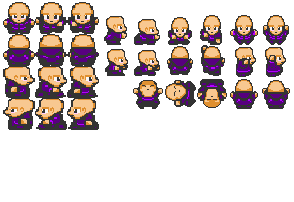
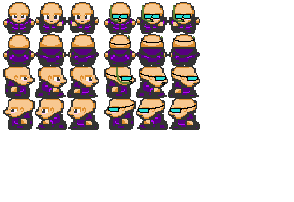
cambios

Changed region(s): [[0.3367, 0.0, 1.0, 0.6535]]

diff --git a/pythonProject/sprites.py b/pythonProject/sprites.py
@@ -16,6 +16,11 @@ class Spritesheet:
 
 
 class Player(pygame.sprite.Sprite):
+    bombas = 0
+    diamantes = 0
+    traje = False
+    trajePuesto = True
+
     def __init__(self, game, x, y):
 
         self.game = game
@@ -95,55 +100,108 @@ class Player(pygame.sprite.Sprite):
                     self.rect.y = hits[0].rect.bottom
 
     def animate(self):
-        down_animations = [self.game.character_spritesheet.get_sprite(3, 2, self.width, self.height),
-                           self.game.character_spritesheet.get_sprite(35, 2, self.width, self.height),
-                           self.game.character_spritesheet.get_sprite(68, 2, self.width, self.height)]
+        if not self.trajePuesto:
+            down_animations = [self.game.character_spritesheet.get_sprite(3, 2, self.width, self.height),
+                               self.game.character_spritesheet.get_sprite(35, 2, self.width, self.height),
+                               self.game.character_spritesheet.get_sprite(68, 2, self.width, self.height)]
 
-        up_animations = [self.game.character_spritesheet.get_sprite(3, 34, self.width, self.height),
-                         self.game.character_spritesheet.get_sprite(35, 34, self.width, self.height),
-                         self.game.character_spritesheet.get_sprite(68, 34, self.width, self.height)]
+            up_animations = [self.game.character_spritesheet.get_sprite(3, 34, self.width, self.height),
+                             self.game.character_spritesheet.get_sprite(35, 34, self.width, self.height),
+                             self.game.character_spritesheet.get_sprite(68, 34, self.width, self.height)]
 
-        left_animations = [self.game.character_spritesheet.get_sprite(3, 98, self.width, self.height),
-                           self.game.character_spritesheet.get_sprite(35, 98, self.width, self.height),
-                           self.game.character_spritesheet.get_sprite(68, 98, self.width, self.height)]
+            left_animations = [self.game.character_spritesheet.get_sprite(3, 98, self.width, self.height),
+                               self.game.character_spritesheet.get_sprite(35, 98, self.width, self.height),
+                               self.game.character_spritesheet.get_sprite(68, 98, self.width, self.height)]
 
-        right_animations = [self.game.character_spritesheet.get_sprite(3, 66, self.width, self.height),
-                            self.game.character_spritesheet.get_sprite(35, 66, self.width, self.height),
-                            self.game.character_spritesheet.get_sprite(68, 66, self.width, self.height)]
-        if self.facing == "down":
-            if self.y_change == 0:
-                self.image = self.game.character_spritesheet.get_sprite(3, 2, self.width, self.height)
-            else:
-                self.image = down_animations[math.floor(self.animation_loop)]
-                self.animation_loop += 0.1
-                if self.animation_loop >= 3:
-                    self.animation_loop = 1
-        if self.facing == "up":
-            if self.y_change == 0:
-                self.image = self.game.character_spritesheet.get_sprite(3, 34, self.width, self.height)
-            else:
-                self.image = up_animations[math.floor(self.animation_loop)]
-                self.animation_loop += 0.1
-                if self.animation_loop >= 3:
-                    self.animation_loop = 1
+            right_animations = [self.game.character_spritesheet.get_sprite(3, 66, self.width, self.height),
+                                self.game.character_spritesheet.get_sprite(35, 66, self.width, self.height),
+                                self.game.character_spritesheet.get_sprite(68, 66, self.width, self.height)]
+        else:
+            down_animations = [self.game.character_spritesheet.get_sprite(104, 2, self.width, self.height),
+                               self.game.character_spritesheet.get_sprite(136, 2, self.width, self.height),
+                               self.game.character_spritesheet.get_sprite(168, 2, self.width, self.height)]
 
-        if self.facing == "right":
-            if self.x_change == 0:
-                self.image = self.game.character_spritesheet.get_sprite(3, 66, self.width, self.height)
-            else:
-                self.image = right_animations[math.floor(self.animation_loop)]
-                self.animation_loop += 0.1
-                if self.animation_loop >= 3:
-                    self.animation_loop = 1
+            up_animations = [self.game.character_spritesheet.get_sprite(3, 34, self.width, self.height),
+                             self.game.character_spritesheet.get_sprite(35, 34, self.width, self.height),
+                             self.game.character_spritesheet.get_sprite(68, 34, self.width, self.height)]
 
-        if self.facing == "left":
-            if self.x_change == 0:
-                self.image = self.game.character_spritesheet.get_sprite(3, 98, self.width, self.height)
-            else:
-                self.image = left_animations[math.floor(self.animation_loop)]
-                self.animation_loop += 0.1
-                if self.animation_loop >= 3:
-                    self.animation_loop = 1
+            left_animations = [self.game.character_spritesheet.get_sprite(3, 98, self.width, self.height),
+                               self.game.character_spritesheet.get_sprite(35, 98, self.width, self.height),
+                               self.game.character_spritesheet.get_sprite(68, 98, self.width, self.height)]
+
+            right_animations = [self.game.character_spritesheet.get_sprite(3, 66, self.width, self.height),
+                                self.game.character_spritesheet.get_sprite(35, 66, self.width, self.height),
+                                self.game.character_spritesheet.get_sprite(68, 66, self.width, self.height)]
+        if not self.trajePuesto:
+            if self.facing == "down":
+                if self.y_change == 0:
+                    self.image = self.game.character_spritesheet.get_sprite(3, 2, self.width, self.height)
+                else:
+                    self.image = down_animations[math.floor(self.animation_loop)]
+                    self.animation_loop += 0.1
+                    if self.animation_loop >= 3:
+                        self.animation_loop = 1
+            if self.facing == "up":
+                if self.y_change == 0:
+                    self.image = self.game.character_spritesheet.get_sprite(3, 34, self.width, self.height)
+                else:
+                    self.image = up_animations[math.floor(self.animation_loop)]
+                    self.animation_loop += 0.1
+                    if self.animation_loop >= 3:
+                        self.animation_loop = 1
+
+            if self.facing == "right":
+                if self.x_change == 0:
+                    self.image = self.game.character_spritesheet.get_sprite(3, 66, self.width, self.height)
+                else:
+                    self.image = right_animations[math.floor(self.animation_loop)]
+                    self.animation_loop += 0.1
+                    if self.animation_loop >= 3:
+                        self.animation_loop = 1
+
+            if self.facing == "left":
+                if self.x_change == 0:
+                    self.image = self.game.character_spritesheet.get_sprite(3, 98, self.width, self.height)
+                else:
+                    self.image = left_animations[math.floor(self.animation_loop)]
+                    self.animation_loop += 0.1
+                    if self.animation_loop >= 3:
+                        self.animation_loop = 1
+        else:
+            if self.facing == "down":
+                if self.y_change == 0:
+                    self.image = self.game.character_spritesheet.get_sprite(104, 2, self.width, self.height)
+                else:
+                    self.image = down_animations[math.floor(self.animation_loop)]
+                    self.animation_loop += 0.1
+                    if self.animation_loop >= 3:
+                        self.animation_loop = 1
+            if self.facing == "up":
+                if self.y_change == 0:
+                    self.image = self.game.character_spritesheet.get_sprite(3, 34, self.width, self.height)
+                else:
+                    self.image = up_animations[math.floor(self.animation_loop)]
+                    self.animation_loop += 0.1
+                    if self.animation_loop >= 3:
+                        self.animation_loop = 1
+
+            if self.facing == "right":
+                if self.x_change == 0:
+                    self.image = self.game.character_spritesheet.get_sprite(3, 66, self.width, self.height)
+                else:
+                    self.image = right_animations[math.floor(self.animation_loop)]
+                    self.animation_loop += 0.1
+                    if self.animation_loop >= 3:
+                        self.animation_loop = 1
+
+            if self.facing == "left":
+                if self.x_change == 0:
+                    self.image = self.game.character_spritesheet.get_sprite(3, 98, self.width, self.height)
+                else:
+                    self.image = left_animations[math.floor(self.animation_loop)]
+                    self.animation_loop += 0.1
+                    if self.animation_loop >= 3:
+                        self.animation_loop = 1
 
 
 class Block(pygame.sprite.Sprite):
@@ -263,7 +321,7 @@ class Pocion(pygame.sprite.Sprite):
         self.rect.x = self.x
         self.rect.y = self.y
 
-class Pocion(pygame.sprite.Sprite):
+class Snorkel(pygame.sprite.Sprite):
 
     def __init__(self, game, x, y):
         self.game = game

diff --git a/pythonProject/Main.py b/pythonProject/Main.py
@@ -74,6 +74,8 @@ class Game:
                     Bomba(self, j, i)
                 if column == "D":
                     Diamante(self, j, i)
+                if column == "T":
+                    Snorkel(self, j, i)
 
 
 
